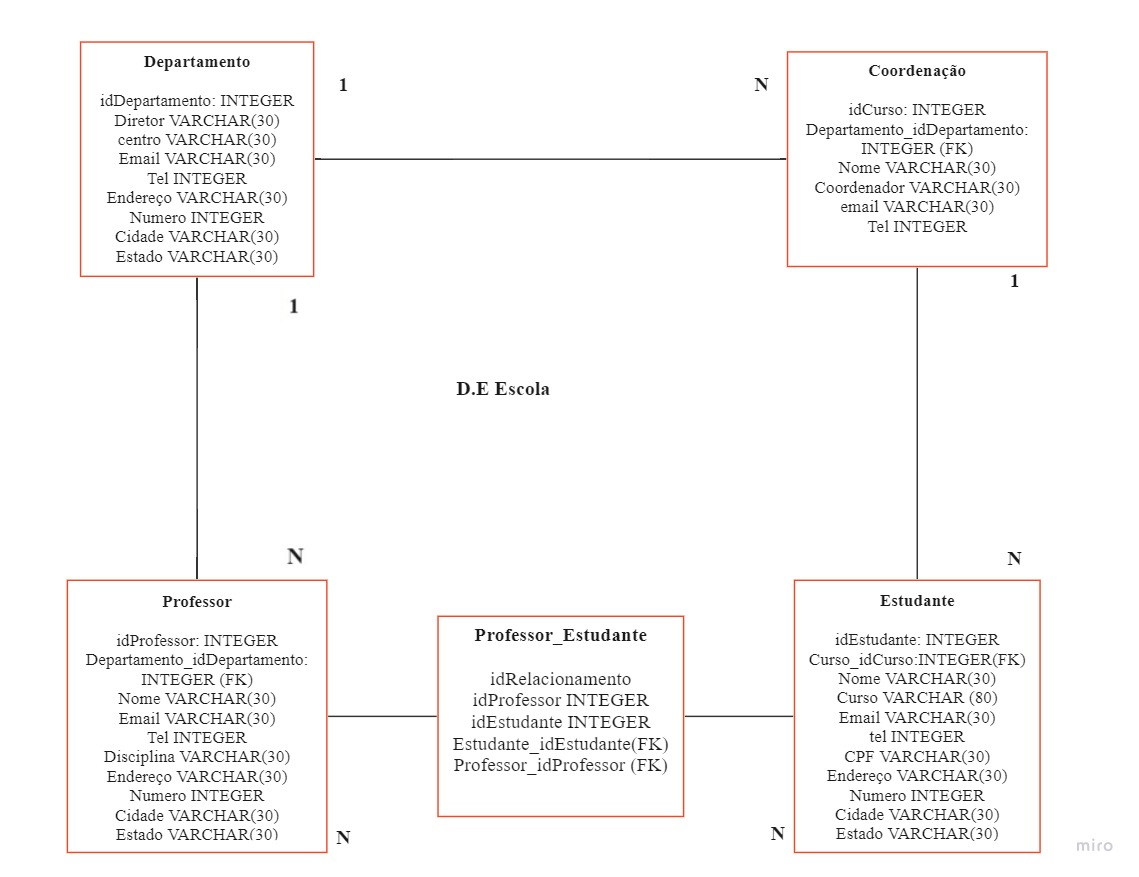
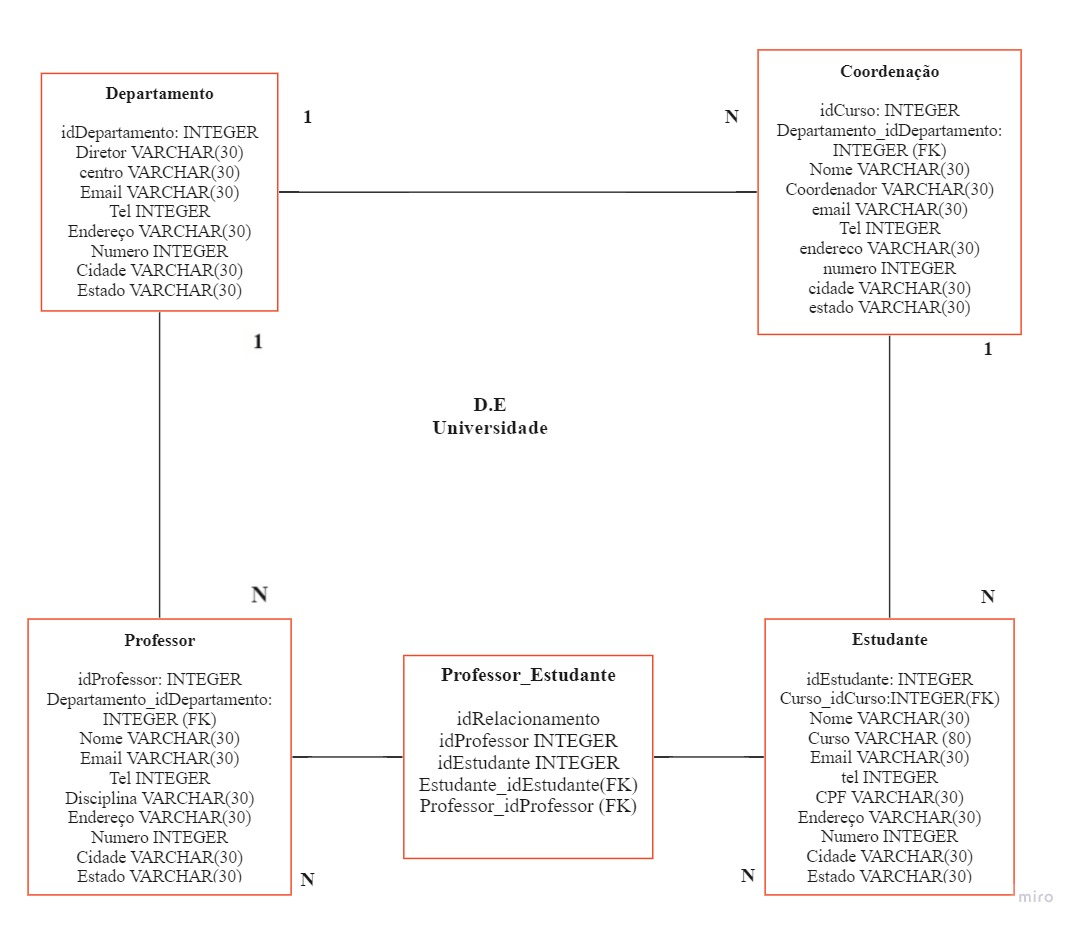
Atualização da Atividade de BD e JAVA

diff --git a/backend/Projeto01/JAVA/Universidade/src/main/java/org/example/Coordenacao.java b/backend/Projeto01/JAVA/Universidade/src/main/java/org/example/Coordenacao.java
@@ -6,13 +6,22 @@ public class Coordenacao {
     private String coordernador;
     private String email;
     private int tel;
+    private String endereco;
+    private int numero;
+    private String cidade;
+    private String estado;
 
 
     Coordenacao (int idCoordenacao, String nome, String coordernador, String email, int tel) {
         this.idCoordenacao = idCoordenacao;
         this.nome = nome;
         this.coordernador = coordernador;
+        this.email = email;
         this.tel = tel;
+        this.endereco = endereco;
+        this.numero = numero;
+        this.cidade = cidade;
+        this.estado = estado;
     }
 
     public String getNome(){
